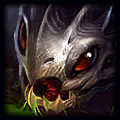
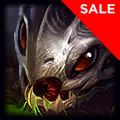
사진수정 및 세일적용

Changed region(s): [[0.5, 0.0, 1.0, 0.5]]

diff --git a/views/js/front.js b/views/js/front.js
@@ -1,8 +1,12 @@
 // localStorage.setItem('point', 100);
 // import {a} from "./test"
 // console.log('a:' + a);
+var saleSkin = ['산타 브라움', '산타 그라가스', '얼음 왕자 문도', '눈사람 하이머딩거', '당돌한 엘프 징크스', '겨울 동화 카르마', '루돌프 코그모', '달콤 쌉싸름한 룰루', '겨울 동화 룰루', '눈맞이 축제 마오카이', '눈사람 마스터이', '겨울 동화 니코','눈토끼 니달리','겨울 동화 오리아나','눈꽃사슴 뽀삐','눈꽃 시비르','고요한 밤 소나', '겨울 동화 소라카', '행복한 엘프 티모', '나쁜 산타 베이가', '산타 질리언'];
+
 var btn = document.querySelectorAll('.buy');
 var price = document.querySelectorAll('.test');
+var skin = document.querySelectorAll('.text-box');
+var test = document.querySelectorAll('.price');
 
 console.log("btn length: " + btn.length);
 
@@ -12,15 +16,31 @@ function make() {
     // console.log(Number(localStorage.getItem('point')));
     // console.log(currentPoint);
     let data = document.querySelector('.infoBoxUserPoint').innerHTML;
-    console.log('data:' + data);
-    console.log(data.split(':')[1].split('<')[0]);
+    // console.log('data:' + data);
+    // console.log(data.split(':')[1].split('<')[0]);
     let currentPoint = Number((data.split(':')[1].split('<')[0]).replace(' ',''));
-    console.log("currentPoint: " + currentPoint);
-    console.log(typeof(currentPoint));
+    // console.log("currentPoint: " + currentPoint);
+    // console.log(typeof(currentPoint));
     for (let element=0; element< btn.length; element++) {
         let btnBox = document.querySelectorAll('.btn-box');
         let p = price[element].innerHTML;
+        let skinName = skin[element].innerHTML;
         // console.log(check);
+
+        if (saleSkin.includes(skinName)) {
+            p = Math.floor(p*4/5);
+            var tmp = test[element].innerHTML;
+            test[element].innerHTML = `<del>${tmp}</del>&nbsp&nbsp`;
+            let img = document.createElement('img');
+            img.setAttribute('class','money-icon');
+            img.setAttribute('src', '/img/money.png');
+            let span = document.createElement('span');
+            span.setAttribute('class', 'test');
+            span.innerHTML = p;
+            test[element].appendChild(img);
+            test[element].appendChild(span);
+        }
+
 
         if (p > currentPoint) {
             // if (check) {

diff --git a/app.js b/app.js
@@ -720,16 +720,21 @@ app.post('/skin/:name', (req, res) => {
             connection.query(sql, (err, result)=>{
                 if(err) throw err;
                 let point = result[0].cpoint;
+                let champid = result[0].champid;
                 
                 num = String(result[0].seq);
-                connection.query(`SELECT * FROM userinfo WHERE userid=("${req.session.uid}")`, (err, result) => {
+                connection.query(`SELECT * FROM userinfo WHERE userid=("${req.session.uid}")`, (err, result1) => {
                     if (err) throw err;
-                    let tmp = result[0].champseq;
-                    let money = result[0].userpoint;
+                    let tmp = result1[0].champseq;
+                    let money = result1[0].userpoint;
                     if(tmp==undefined || !tmp.includes(num)){
+                        let saleSkin = ['산타 브라움', '산타 그라가스', '얼음 왕자 문도', '눈사람 하이머딩거', '당돌한 엘프 징크스', '겨울 동화 카르마', '루돌프 코그모', '달콤 쌉싸름한 룰루', '겨울 동화 룰루', '눈맞이 축제 마오카이', '눈사람 마스터이', '겨울 동화 니코','눈토끼 니달리','겨울 동화 오리아나','눈꽃사슴 뽀삐','눈꽃 시비르','고요한 밤 소나', '겨울 동화 소라카', '행복한 엘프 티모', '나쁜 산타 베이가', '산타 질리언'];
                         if (money>point) {
                             tmp+=`/${num}`
-                            money-=point;
+                            if (saleSkin.includes(champid)) {
+                                money-=Math.floor(point/5*4);
+                            }
+                            else money-=point;
                             connection.query(`UPDATE userinfo SET champseq = ("${tmp}"), userpoint = ("${money}") WHERE userid="${req.session.uid}"`, (err, result) => {
                                 if (err) throw err;
                                 else {
